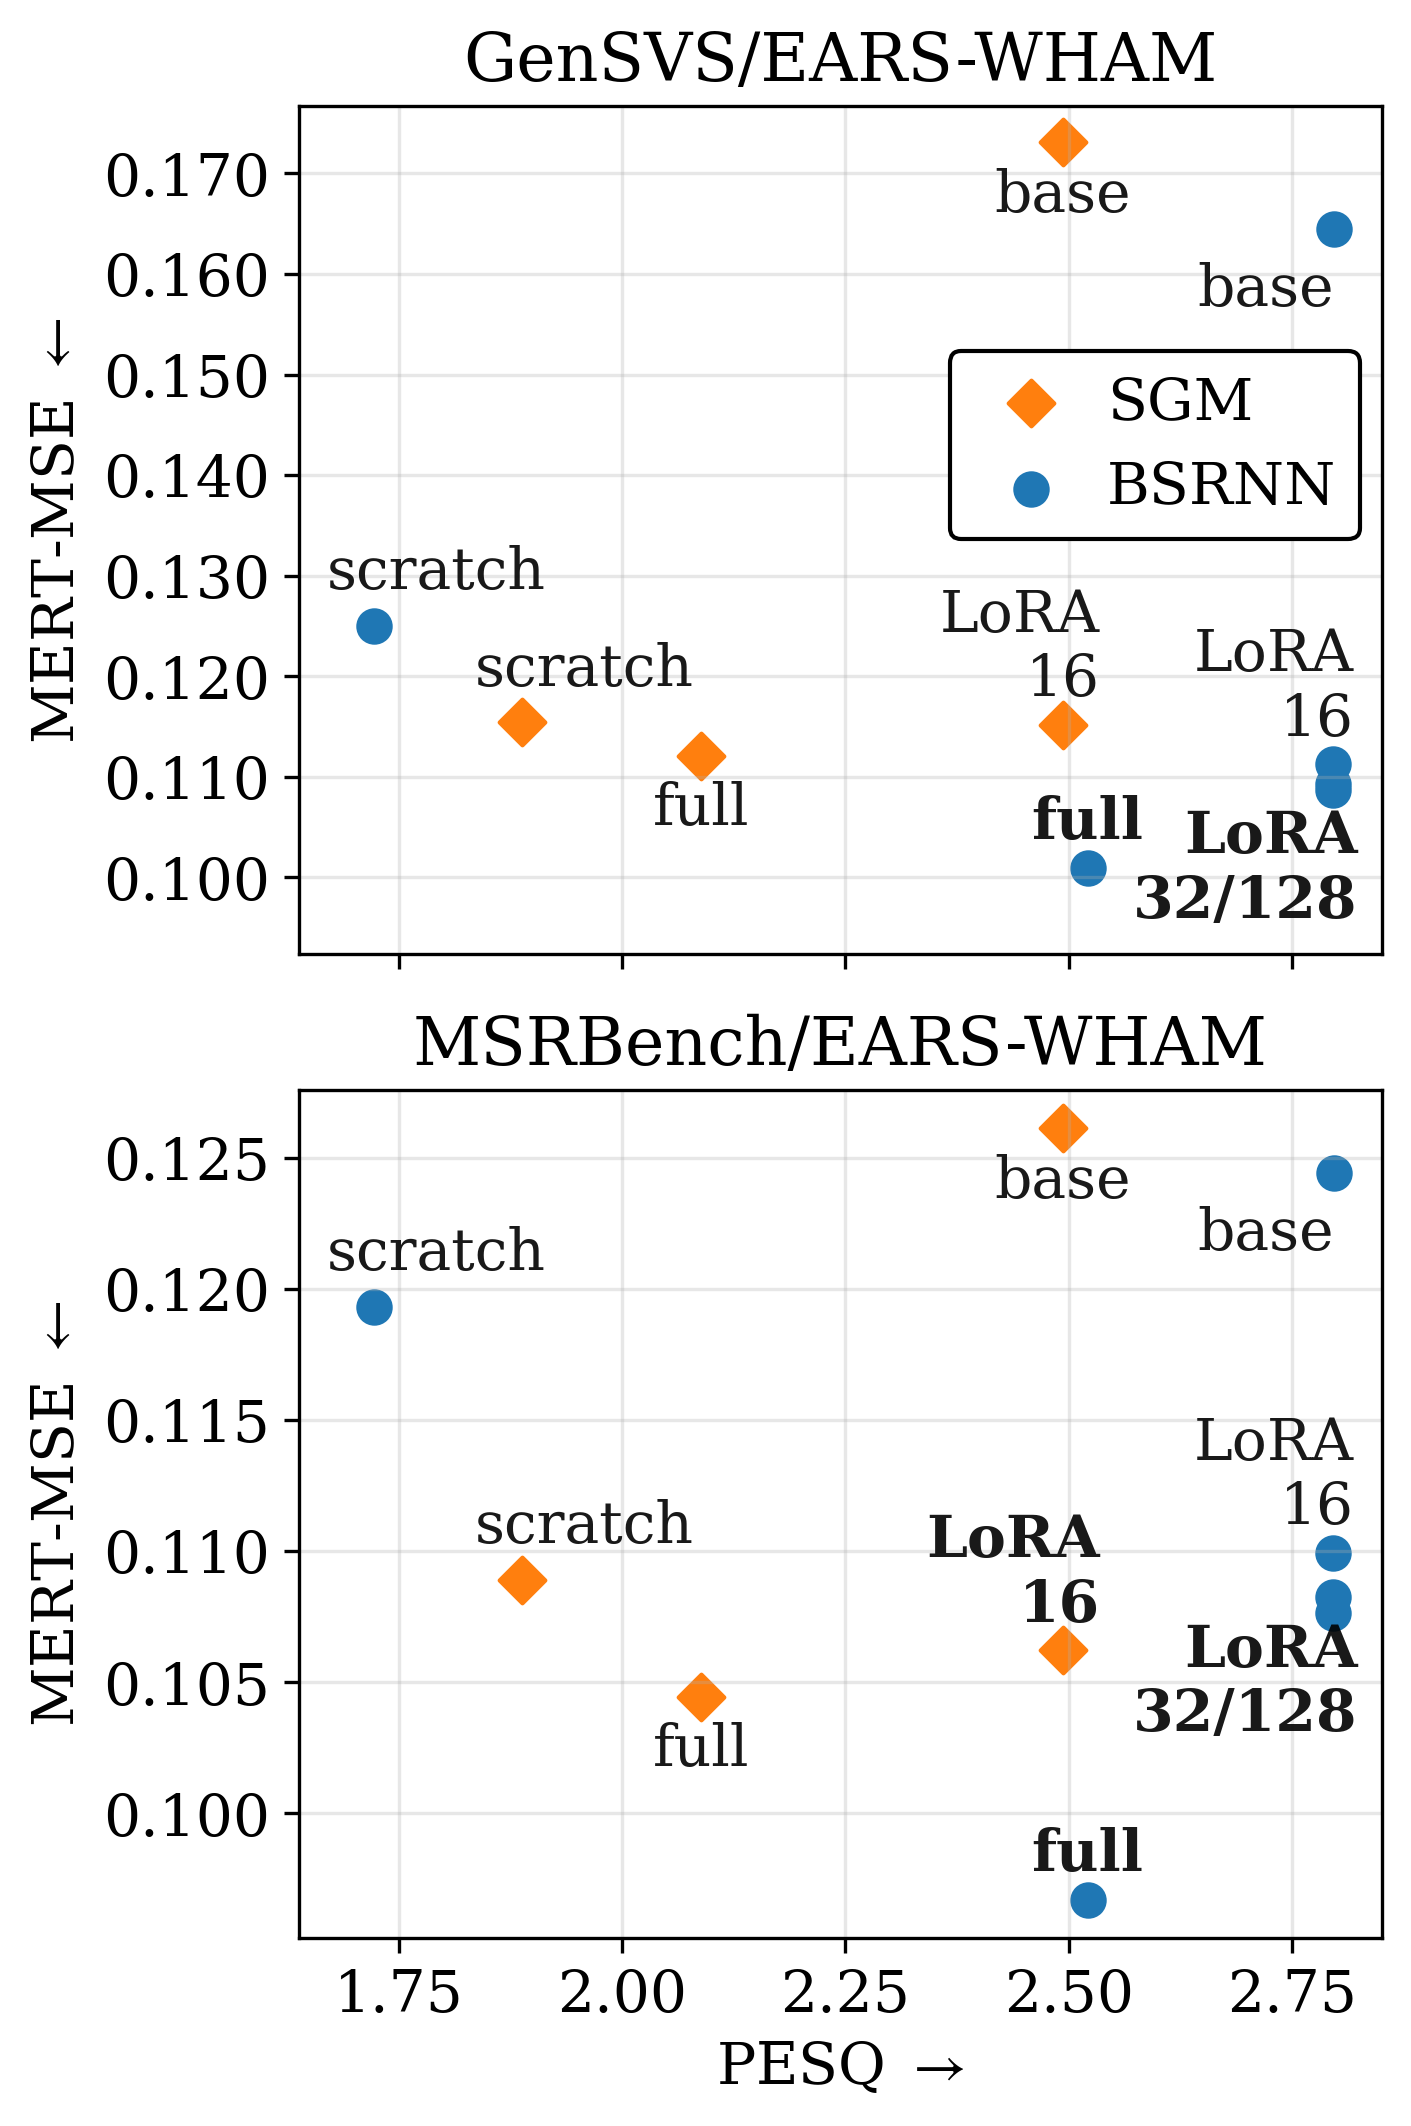
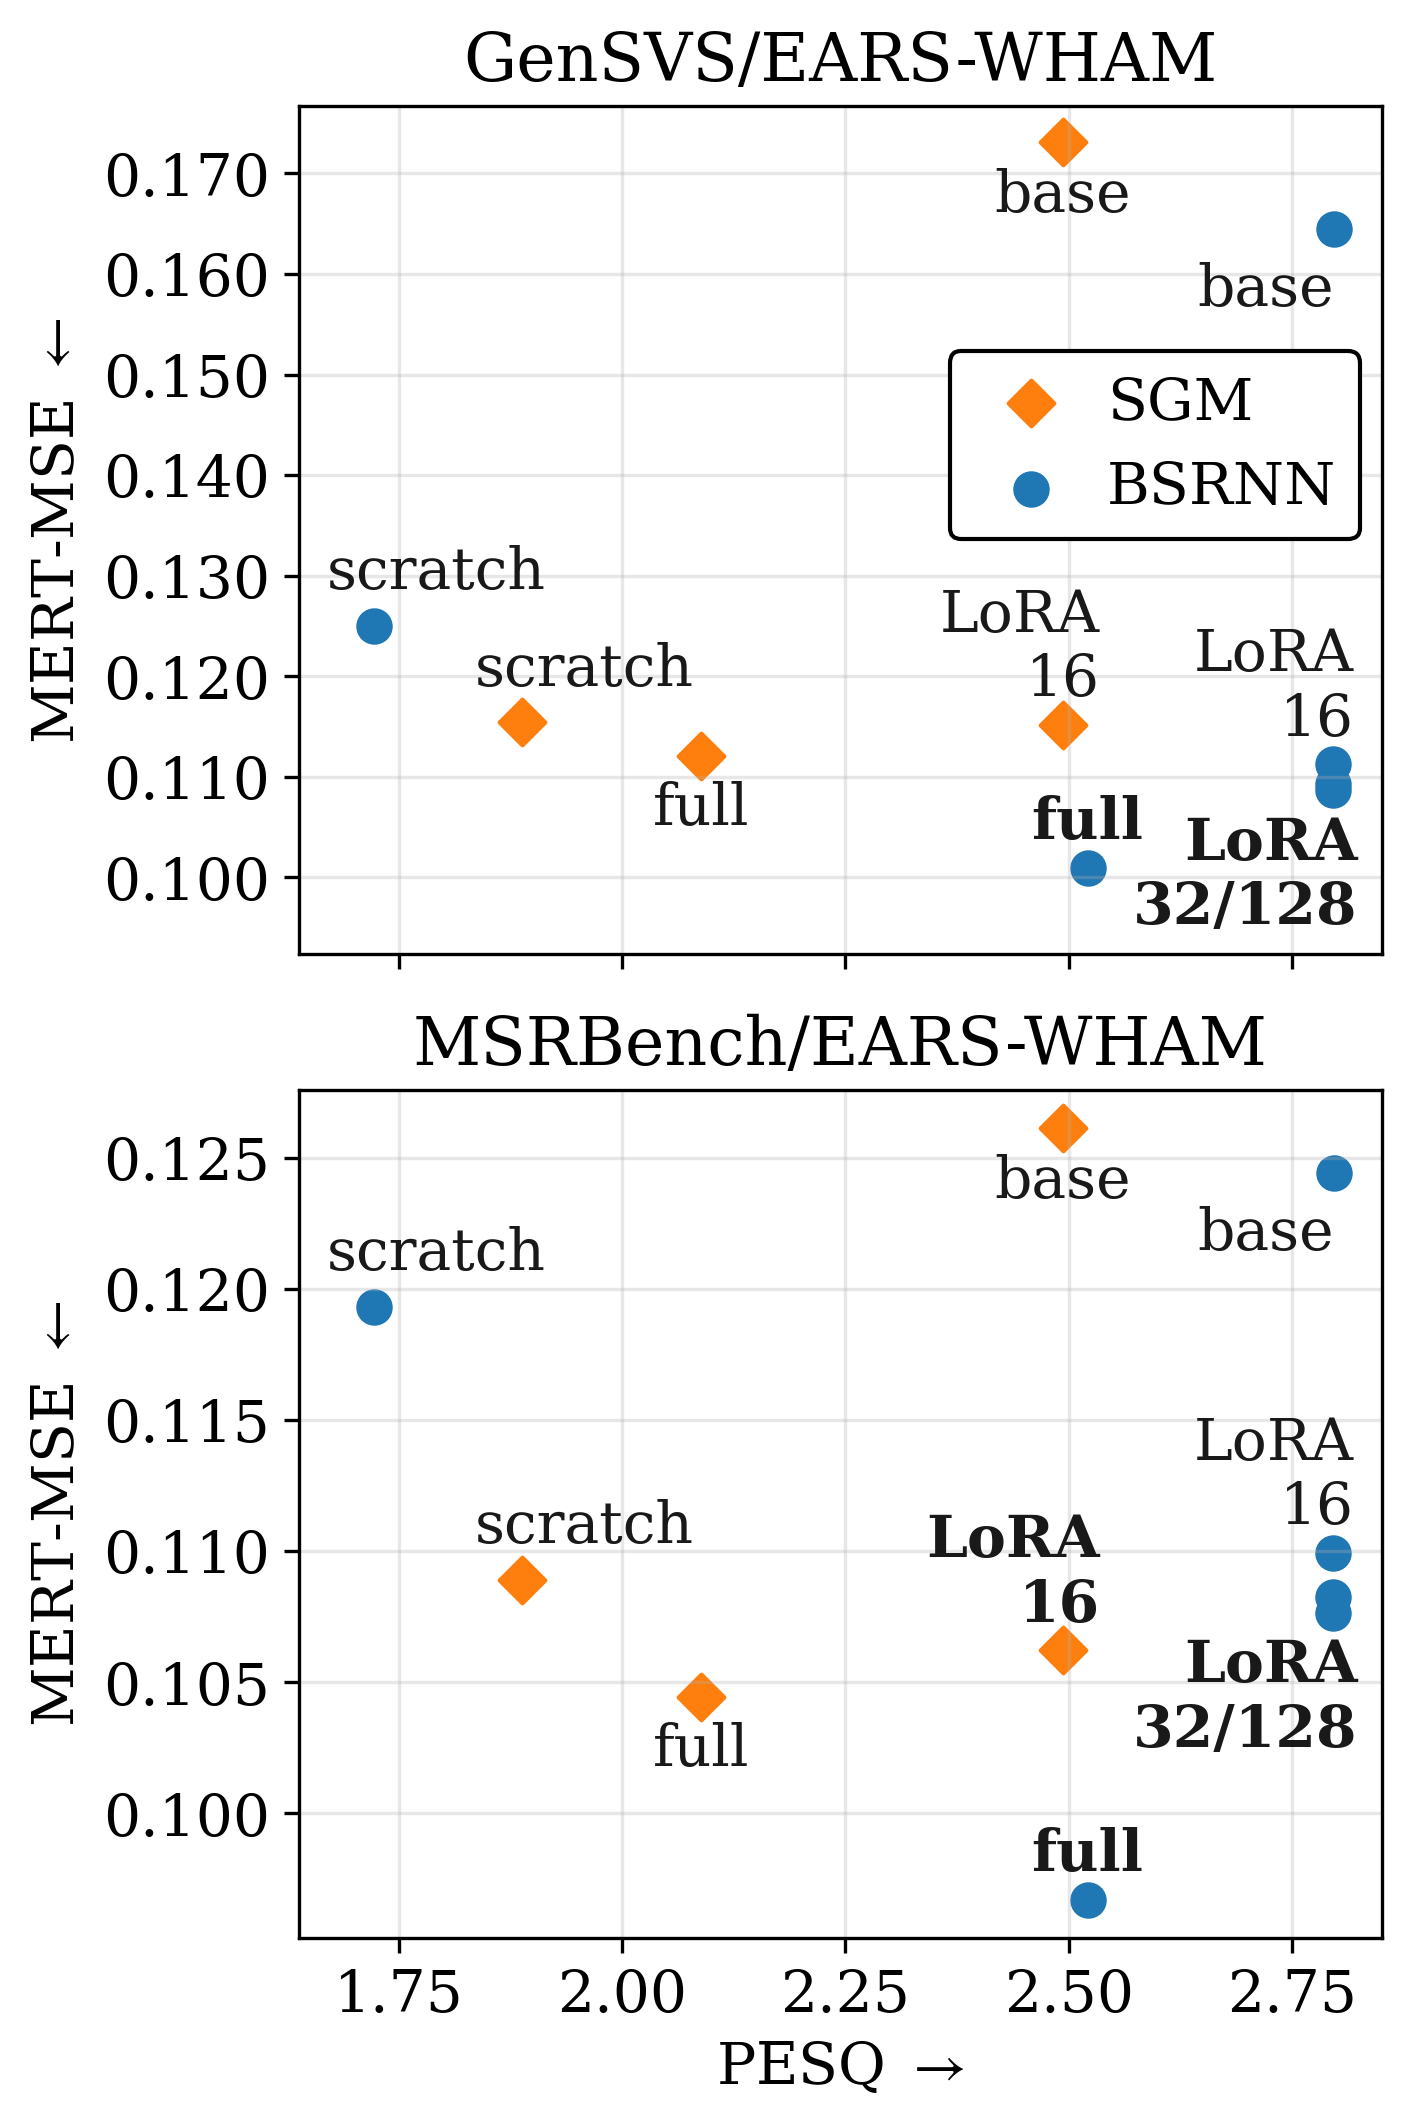
code cleanup finished

Changed region(s): [[0.8108, 0.7451, 0.9667, 0.8382], [0.8108, 0.3725, 0.9667, 0.4346]]

diff --git a/README.md b/README.md
@@ -194,36 +194,45 @@ Pass `--no-lora` to disable LoRA adapters and evaluate the base model through th
 
 ### Separation metrics (SDR, MR-STFT loss, MERT-MSE)
 
+For BSRNN models with a single output directory:
+
 ```bash
 python evaluate_separation.py \
-    --separated-dir ./test_sets/gensvs_eval_audio/sgm_lora_r16 \
+    --separated-dir ./test_sets/gensvs_eval_audio/bsrnn_lora_r16 \
     --target-dir ./test_sets/gensvs_eval_audio/target \
-    --output-csv ./test_sets/gensvs_eval_audio/sgm_lora_r16/results.csv
-```
-Compute summary statistics across evaluation iterations:
-
-```bash
-python evaluate_separation.py --separated-dir ./test_sets/gensvs_eval_audio/sgm_lora_r16 --target-dir ./test_sets/gensvs_eval_audio/target
+    --output-csv ./test_sets/gensvs_eval_audio/bsrnn_lora_r16/results.csv
 ```
 
-For SGM outputs with multiple enhanced signal realizations stored in subdirectories, evaluate all runs with:
+For SGM models with multiple enhanced signal realizations stored in `iter_NNN_seedXX/` subdirectories, use `--multi-run-dir` to evaluate all iterations at once:
 
 ```bash
 python evaluate_separation.py \
   --multi-run-dir ./test_sets/gensvs_eval_audio/sgm_lora_r16 \
-  --target-dir test_sets/gensvs_eval_audio/target
+  --target-dir ./test_sets/gensvs_eval_audio/target
 ```
 
-This scans each subdirectory under `--multi-run-dir` and writes a `results.csv` file into each run folder.
+This scans each subdirectory under `--multi-run-dir` and writes a `results.csv` into each run folder.
 
 ### Speech enhancement metrics (SI-SDR, PESQ, STOI, DNSMOS, DistillMOS)
 
+For BSRNN models with a single output directory:
+
 ```bash
 python evaluate_speech.py \
-  --separated-dir ./test_sets/ears_wham/sgm_lora_r16 \
+  --separated-dir ./test_sets/ears_wham/bsrnn_lora_r16 \
   --target-dir ./test_sets/ears_wham/clean \
-  --output-csv ./test_sets/ears_wham/sgm_lora_r16/results.csv
+  --output-csv ./test_sets/ears_wham/bsrnn_lora_r16/speech_metrics_results.csv
 ```
+
+For SGM models with multiple enhanced signal realizations stored in `iter_NNN_seedXX/` subdirectories, use `--multi-run-dir` to evaluate all iterations at once:
+
+```bash
+python evaluate_speech.py \
+  --multi-run-dir ./test_sets/ears_wham/sgm_lora_r16 \
+  --target-dir ./test_sets/ears_wham/clean
+```
+
+This scans each subdirectory under `--multi-run-dir` and writes a `speech_metrics_results.csv` into each run folder.
 
 ### Aggregate and plot results
 
@@ -258,7 +267,7 @@ env_info/           Conda environment and pip requirements files
 
 ## Citation
 
-If you use this code, please cite:
+If you use this code or the associated models, please cite:
 
 ```bibtex
 @INPROCEEDINGS{bereuter2026se2svs,
